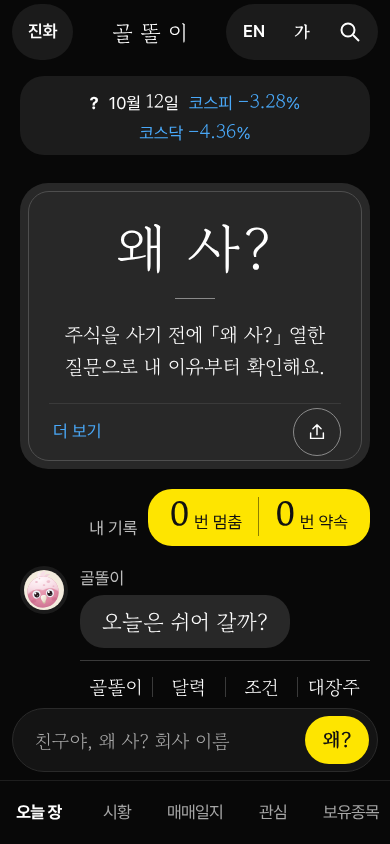
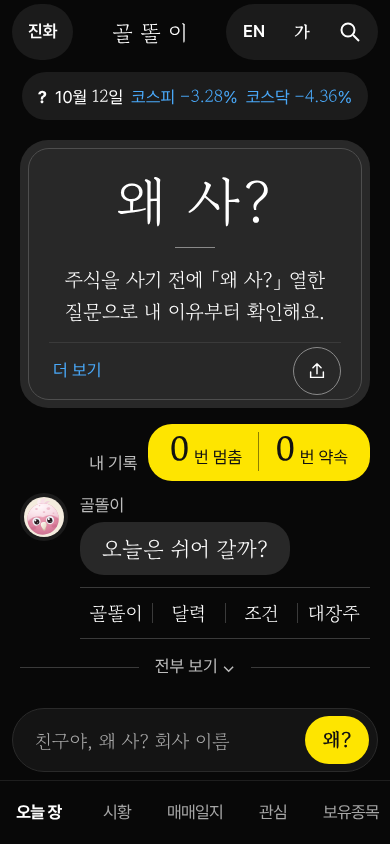
에르메스 샘플 3번 · 그리는 중 사본
Claude-Session: https://claude.ai/code/session_01NCpyR4ELc71hqitZJpUS2Z

diff --git a/docs/design/kakao-2026-10-19/mock/h1.html b/docs/design/kakao-2026-10-19/mock/h1.html
@@ -25,19 +25,20 @@ button,input{font:inherit;color:inherit;background:none;border:0}
 #view{padding:0 20px}
 
 /* 날짜 알약 — 숫자만 고운바탕 */
-.pill{display:flex;justify-content:center;margin:12px 0 28px}
-.pill a{background:#1C1C1C;border-radius:24px;display:flex;flex-wrap:wrap;align-items:baseline;justify-content:center;column-gap:10px;min-height:48px;padding:11px 20px 9px;font-size:17px;color:#FFFFFF}
+.pill{display:flex;justify-content:center;margin:8px 0 20px}
+.pill .in{background:#1C1C1C;border-radius:24px;display:flex}
+.pill a{display:flex;flex-wrap:nowrap;white-space:nowrap;align-items:baseline;justify-content:center;column-gap:8px;min-height:48px;padding:11px 16px 9px;font-size:17px;color:#FFFFFF}
 .pill .q{font-weight:700}
-.pill .n{font-family:"Gowun Batang",serif;font-size:19px}
+.pill .n{font-family:"Gowun Batang",serif;font-size:17px}
 .up{color:#FF5A65}.dn{color:#49A8F8}
 
 /* 본질 = 새긴 이름판 — 회색 판 속 머리카락 테 · 가운데 맞춤 · 넓은 숨 */
 .plate{background:#282828;border-radius:28px;padding:8px}
-.plate .frame{border:1px solid #4E4E4E;border-radius:21px;padding:28px 20px 0;text-align:center}
+.plate .frame{border:1px solid #4E4E4E;border-radius:21px;padding:24px 20px 0;text-align:center}
 .plate .big{display:block;font-size:56px;line-height:1;color:#FFFFFF;letter-spacing:.04em}
-.plate .rule{display:block;width:40px;height:1px;background:#8A8A8A;margin:22px auto 20px}
+.plate .rule{display:block;width:40px;height:1px;background:#8A8A8A;margin:18px auto 16px}
 .plate p[data-ess="1"]{font-size:20px;line-height:1.6;color:#FFFFFF;word-break:keep-all;max-width:15.5em;margin:0 auto}
-.plate .foot{display:flex;align-items:center;justify-content:space-between;margin-top:20px;border-top:1px solid #3A3A3A;padding:4px 0}
+.plate .foot{display:flex;align-items:center;justify-content:space-between;margin-top:14px;border-top:1px solid #3A3A3A;padding:4px 0}
 .plate details{flex:1;text-align:left}
 .plate summary{list-style:none;min-height:48px;display:inline-flex;align-items:center;font-size:17px;color:#49A8F8;cursor:pointer;padding-left:4px}
 .plate summary::-webkit-details-marker{display:none}
@@ -45,7 +46,7 @@ button,input{font:inherit;color:inherit;background:none;border:0}
 .kk-btn{width:48px;height:48px;border-radius:24px;border:1px solid #8A8A8A !important;display:flex;align-items:center;justify-content:center}
 
 /* 내 말 = 노랑 · 숫자는 크게 새기고 단위는 작게 */
-.mine{display:flex;justify-content:flex-end;align-items:flex-end;gap:10px;margin-top:20px}
+.mine{display:flex;justify-content:flex-end;align-items:flex-end;gap:10px;margin-top:16px}
 .mine .t{font-size:17px;color:#BDBDBD;padding-bottom:4px}
 .mine a{display:flex;align-items:baseline;background:#FEE500;color:#111111;border-radius:24px;padding:8px 22px 10px;min-height:56px}
 .mine .cell{display:flex;align-items:baseline;gap:4px}
@@ -54,7 +55,7 @@ button,input{font:inherit;color:inherit;background:none;border:0}
 .mine span{font-size:17px;color:#111111}
 
 /* 받은 말 = 골똘이 */
-.from{margin-top:20px;display:flex;gap:12px;align-items:flex-start}
+.from{margin-top:12px;display:flex;gap:12px;align-items:flex-start}
 .from .av{flex:0 0 48px;width:48px;height:48px;border-radius:24px;background:#1B1B1B;display:flex;align-items:center;justify-content:center}
 .from .av img{width:40px;height:40px}
 .from .who{font-size:17px;color:#BDBDBD;margin-bottom:4px}
@@ -62,11 +63,11 @@ button,input{font:inherit;color:inherit;background:none;border:0}
 
 /* 골똘이 칸 — 상자 없이 머리카락 선 사이 글자 넷 */
 .gdr{margin:12px 0 0 60px;display:flex;align-items:center;border-top:1px solid #3A3A3A;border-bottom:1px solid #3A3A3A}
-.gdr a{flex:1;min-height:52px;display:flex;align-items:center;justify-content:center;font-family:"Gowun Batang",serif;font-size:19px;color:#FFFFFF}
+.gdr a{flex:1;min-height:50px;display:flex;align-items:center;justify-content:center;font-family:"Gowun Batang",serif;font-size:19px;color:#FFFFFF}
 .gdr i{flex:0 0 1px;height:20px;background:#3A3A3A}
 
 /* 전부 보기 — 양 옆 머리카락 선 */
-.all{margin-top:8px}
+.all{margin-top:4px}
 .all summary{list-style:none;min-height:48px;display:flex;align-items:center;gap:16px;font-size:17px;color:#BDBDBD;cursor:pointer;white-space:nowrap}
 .all summary::-webkit-details-marker{display:none}
 .all summary::before,.all summary::after{content:"";flex:1;height:1px;background:#3A3A3A}
@@ -102,7 +103,7 @@ button,input{font:inherit;color:inherit;background:none;border:0}
   .ttl{font-size:20px;letter-spacing:.18em;text-indent:.18em}
   #view{padding:0 14px}
   .pill{margin:8px 0 14px}
-  .pill a{padding:8px 14px 6px;column-gap:8px}
+  .pill a{flex-wrap:wrap;white-space:normal;padding:8px 14px 6px;column-gap:8px}
   .plate .frame{padding:18px 12px 0}
   .plate .big{font-size:42px}
   .plate .rule{margin:14px auto 12px}
@@ -124,7 +125,7 @@ button,input{font:inherit;color:inherit;background:none;border:0}
   </span>
 </header>
 <main id="view">
-  <div class="pill" data-w="today"><a data-num href="#/f/day"><span class="q">?</span><span>10월 <span class="n">12</span>일</span><span class="dn">코스피 <span class="n">−3.28</span>%</span><span class="dn">코스닥 <span class="n">−4.36</span>%</span></a></div>
+  <div class="pill" data-w="today"><span class="in"><a data-num href="#/f/day"><span class="q">?</span><span>10월 <span class="n">12</span>일</span><span class="dn">코스피 <span class="n">−3.28</span>%</span><span class="dn">코스닥 <span class="n">−4.36</span>%</span></a></span></div>
 
   <section class="plate" data-w="ess">
     <div class="frame">

diff --git a/docs/design/kakao-2026-10-19/mock/h3.html b/docs/design/kakao-2026-10-19/mock/h3.html
@@ -27,28 +27,28 @@ button,input{font:inherit;color:inherit;background:none;border:0}
 
 /* 날짜 알약 — 가운데 · 누르지 않는 머리표 */
 .pill{display:flex;justify-content:center;margin:4px 0 12px}
-.pill span{background:#1C1C1C;border-radius:20px;padding:6px 18px;font-size:17px;color:#FFFFFF}
-.q{color:#FEE500;font-weight:700}
+.pill>span{background:#1C1C1C;border-radius:20px;padding:6px 18px;font-size:17px;color:#FFFFFF}
+.q{color:#FEE500;font-weight:700;margin-right:6px}
 .up{color:#FF5A65}.dn{color:#49A8F8}
 
 /* 선반 — 칸마다 위에 가는 선 하나 · 왼쪽 끝은 모두 같은 자리 */
-.shelf{border-top:1px solid #2C2C2C;padding:14px 0 14px}
-.talk{border-bottom:1px solid #2C2C2C}
+.shelf{border-top:1px solid #2C2C2C;padding:10px 0}
+.talk{border-bottom:1px solid #2C2C2C;padding-bottom:0}
 .lab{display:flex;align-items:center;justify-content:space-between;font-size:17px;color:#A8A8A8;letter-spacing:0.02em;min-height:24px}
 .num{font-family:"Gowun Batang",serif;font-weight:400;letter-spacing:-0.02em;line-height:1}
 
 /* 선반 1 · 오늘 장 — 큰 숫자 두 개를 나란히 */
 .today{display:block}
-.today .row{display:flex;margin-top:10px}
+.today .row{display:flex;margin-top:6px}
 .today .col{flex:1 1 0;min-width:0}
 .today .col+.col{border-left:1px solid #2C2C2C;padding-left:16px}
-.today .k{display:block;font-size:17px;color:#FFFFFF;margin-bottom:6px}
+.today .k{display:block;font-size:17px;color:#FFFFFF;margin-bottom:4px}
 .today .num{font-size:34px}
 
 /* 선반 2 · 본질 — 앵무새 도장은 이름표 오른쪽 끝에 작게 한 번 */
 .mark{display:inline-flex;align-items:center;gap:8px;color:#A8A8A8}
 .mark img{width:28px;height:28px;display:block}
-.ess p[data-ess="1"]{font-size:22px;line-height:1.42;margin-top:8px;word-break:keep-all}
+.ess p[data-ess="1"]{font-size:22px;line-height:1.4;margin-top:4px;word-break:keep-all}
 .ess details summary{list-style:none;min-height:48px;display:inline-flex;align-items:center;font-size:17px;color:#49A8F8;cursor:pointer}
 .ess details summary::-webkit-details-marker{display:none}
 .ess details p{font-size:17px;color:#D6D6D6;margin-bottom:10px;word-break:keep-all}
@@ -56,15 +56,16 @@ button,input{font:inherit;color:inherit;background:none;border:0}
 .kk-btn{min-width:48px;height:48px;display:inline-flex;align-items:center;justify-content:flex-end;gap:6px;font-size:17px;color:#FFFFFF}
 
 /* 선반 3 · 내 기록 — 노랑은 「내 것」에만: 큰 노란 숫자 */
-.mine{display:flex;align-items:center;min-height:64px}
+.mine{display:flex;align-items:center;min-height:52px}
 .mine .lab{flex:0 0 auto;margin-right:auto}
 .mine .v{display:flex;align-items:baseline;gap:6px;color:#FEE500;font-size:17px}
 .mine .v+.v{margin-left:24px}
 .mine .num{font-size:40px;color:#FEE500}
 
 /* 선반 4 · 골똘이 — 말풍선 하나 + 칸 넷을 한 줄 · 세로 가는 선 */
-.say{display:inline-block;background:#282828;border-radius:22px;padding:10px 18px;font-size:20px;margin-top:8px}
-.gdr{display:flex;margin-top:12px;border-top:1px solid #2C2C2C}
+.saywrap{display:flex;align-items:center;justify-content:space-between;gap:12px}
+.say{display:inline-block;background:#282828;border-radius:22px;padding:10px 18px;font-size:20px}
+.gdr{display:flex;margin-top:10px;border-top:1px solid #2C2C2C}
 .gdr a{flex:1 1 0;min-height:52px;display:flex;align-items:center;font-size:17px;color:#FFFFFF;padding-left:12px}
 .gdr a:first-child{padding-left:0}
 .gdr a+a{border-left:1px solid #2C2C2C}
@@ -152,8 +153,7 @@ button,input{font:inherit;color:inherit;background:none;border:0}
   </a></div>
 
   <section class="shelf talk">
-    <div class="lab"><span>골똘이</span><button class="kk-btn" type="button" aria-label="친구에게 보내기"><svg width="20" height="20" viewBox="0 0 22 22" fill="none" stroke="#FFFFFF" stroke-width="2" stroke-linecap="round"><path d="M11 14V3M6.5 7.5L11 3l4.5 4.5M4 12v6h14v-6"/></svg></button></div>
-    <p class="say serif" data-say>오늘은 쉬어 갈까?</p>
+    <div class="saywrap"><p class="say serif" data-say>오늘은 쉬어 갈까?</p><button class="kk-btn" type="button" aria-label="친구에게 보내기"><svg width="20" height="20" viewBox="0 0 22 22" fill="none" stroke="#FFFFFF" stroke-width="2" stroke-linecap="round"><path d="M11 14V3M6.5 7.5L11 3l4.5 4.5M4 12v6h14v-6"/></svg></button></div>
     <nav class="gdr" data-w="gdr" aria-label="골똘이 칸">
       <a href="#/why">골똘이</a>
       <a href="#/cal">달력</a>

diff --git a/docs/design/kakao-2026-10-19/mock/h3.why.md b/docs/design/kakao-2026-10-19/mock/h3.why.md
@@ -1,0 +1,22 @@
+# h3 · 에르메스 눈 「공방의 선반」
+
+한 줄 생각: 첫 화면을 조용한 가게 진열장처럼 짠다. 물건은 몇 개뿐이고, 저마다 제 선반 한 칸에 놓인다.
+
+## 왜? 다섯
+1. 왜 선반인가? 좋은 가게는 물건을 적게 둔다. 칸이 가는 선 하나로만 나뉘니 눈이 한 칸씩 쉬며 내려간다.
+2. 왜 왼쪽 끝을 한 줄에 맞췄나? 글이 모두 같은 자리에서 시작하면 반듯하다. 반듯함이 꾸밈 없이 값을 낸다.
+3. 왜 숫자만 크게 고운바탕인가? 오늘 장과 멈춤 · 약속이 이 화면의 물건이다. 이름표는 작게 두고 물건만 크게 보인다.
+4. 왜 앵무새는 한 번, 작게인가? 장인은 도장을 한 번만 찍는다. 본질 칸 오른쪽 위에 작게 찍어 누가 만든 곳인지만 알린다.
+5. 본질: 사기 전에 한 번 멈추게 하는 곳. 노란 큰 숫자 「0번 멈춤」이 선반 한가운데 놓인다. 사려는 손이 먼저 내 멈춤 수를 본다.
+
+## 그럴까?
+선반이 너무 조용해서 처음 온 사람은 무엇을 누를지 망설일 수 있다. 그래서 노랑은 내 숫자와 맨 아래 「왜?」 단추에만 두어 누를 곳을 하나로 모았다.
+
+## 카톡 화면에서 가져온 것 다섯
+1. 위 줄 — 왼쪽 둥근 단추(진화) · 가운데 이름 · 오른쪽 알약 덩이(EN · 가 · 찾기).
+2. 날짜 알약 — 가운데 회색 알약 「? 10월 12일」. 아래 시황에도 둘째 알약.
+3. 받은 말풍선 — 회색 #282828 말풍선 하나만(「오늘은 쉬어 갈까?」). 옆에 보내기 단추.
+4. 노랑 = 내 것 — 내 기록 숫자와 찾기 단추에만 #FEE500.
+5. 아래 입력 줄 — 둥근 긴 칸 「친구야, 왜 사? 회사 이름」 + 노란 「왜?」 + 아래 단추 다섯 그대로.
+
+k3 와 다른 점: 링크 카드 · 얼굴 칸 · 노란 말풍선을 걷었다. 칸은 둥근 상자 대신 가는 선 선반이고, 오늘 장은 알약 안 작은 글이 아니라 선반 위 큰 숫자다.
